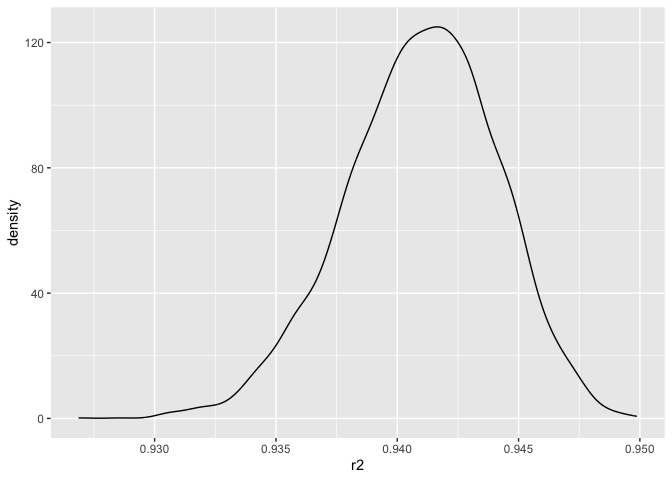
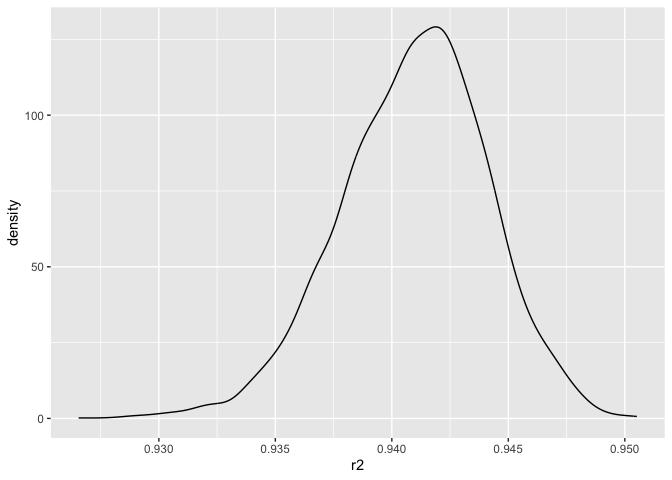
-finish

diff --git a/p8105_hw6_jc6693.md b/p8105_hw6_jc6693.md
@@ -187,6 +187,146 @@ CI_table
 
 |    r2_low |   r2_high |  beta_low | beta_high |
 |----------:|----------:|----------:|----------:|
-| 0.9344278 | 0.9466046 | -278.6629 | -125.0794 |
+| 0.9343003 | 0.9467963 | -278.3924 | -124.4131 |
 
 ## Problem 3
+
+``` r
+library(modelr)
+```
+
+    ## 
+    ## Attaching package: 'modelr'
+
+    ## The following object is masked from 'package:broom':
+    ## 
+    ##     bootstrap
+
+``` r
+birthweight_df = read_csv('data/birthweight.csv') |>
+  drop_na() |>
+  mutate(babysex = factor(babysex, levels = c(1,2), labels = c("Male","Female")))
+```
+
+    ## Rows: 4342 Columns: 20
+    ## ── Column specification ────────────────────────────────────────────────────────
+    ## Delimiter: ","
+    ## dbl (20): babysex, bhead, blength, bwt, delwt, fincome, frace, gaweeks, malf...
+    ## 
+    ## ℹ Use `spec()` to retrieve the full column specification for this data.
+    ## ℹ Specify the column types or set `show_col_types = FALSE` to quiet this message.
+
+considering using mother’s weight(ppwt) and weight gained (wtgain) and
+baby’s sex(babysex) to predict birthweight(bwt).
+
+``` r
+model1 = lm(bwt ~ ppwt + wtgain + babysex, data = birthweight_df)
+summary(model1)
+```
+
+    ## 
+    ## Call:
+    ## lm(formula = bwt ~ ppwt + wtgain + babysex, data = birthweight_df)
+    ## 
+    ## Residuals:
+    ##     Min      1Q  Median      3Q     Max 
+    ## -2387.8  -276.6    17.4   317.4  1547.9 
+    ## 
+    ## Coefficients:
+    ##                Estimate Std. Error t value Pr(>|t|)    
+    ## (Intercept)   2250.1955    49.7031  45.273  < 2e-16 ***
+    ## ppwt             5.1388     0.3653  14.068  < 2e-16 ***
+    ## wtgain          12.1645     0.6732  18.069  < 2e-16 ***
+    ## babysexFemale  -80.1823    14.6989  -5.455 5.17e-08 ***
+    ## ---
+    ## Signif. codes:  0 '***' 0.001 '**' 0.01 '*' 0.05 '.' 0.1 ' ' 1
+    ## 
+    ## Residual standard error: 483.9 on 4338 degrees of freedom
+    ## Multiple R-squared:  0.1081, Adjusted R-squared:  0.1074 
+    ## F-statistic: 175.2 on 3 and 4338 DF,  p-value: < 2.2e-16
+
+``` r
+model1_plot = birthweight_df |>
+  add_predictions(model1) |>
+  add_residuals(model1) |>
+  ggplot(aes(x = pred, y = resid)) + geom_point()
+model1_plot
+```
+
+![](p8105_hw6_jc6693_files/figure-gfm/unnamed-chunk-16-1.png)<!-- -->
+
+the other models:
+
+``` r
+model2 = lm(bwt ~ blength + gaweeks,data = birthweight_df)
+summary(model2)
+```
+
+    ## 
+    ## Call:
+    ## lm(formula = bwt ~ blength + gaweeks, data = birthweight_df)
+    ## 
+    ## Residuals:
+    ##     Min      1Q  Median      3Q     Max 
+    ## -1709.6  -215.4   -11.4   208.2  4188.8 
+    ## 
+    ## Coefficients:
+    ##              Estimate Std. Error t value Pr(>|t|)    
+    ## (Intercept) -4347.667     97.958  -44.38   <2e-16 ***
+    ## blength       128.556      1.990   64.60   <2e-16 ***
+    ## gaweeks        27.047      1.718   15.74   <2e-16 ***
+    ## ---
+    ## Signif. codes:  0 '***' 0.001 '**' 0.01 '*' 0.05 '.' 0.1 ' ' 1
+    ## 
+    ## Residual standard error: 333.2 on 4339 degrees of freedom
+    ## Multiple R-squared:  0.5769, Adjusted R-squared:  0.5767 
+    ## F-statistic:  2958 on 2 and 4339 DF,  p-value: < 2.2e-16
+
+``` r
+model3 = lm(bwt ~ (bhead + blength + babysex)^3, data = birthweight_df)
+summary(model3)
+```
+
+    ## 
+    ## Call:
+    ## lm(formula = bwt ~ (bhead + blength + babysex)^3, data = birthweight_df)
+    ## 
+    ## Residuals:
+    ##      Min       1Q   Median       3Q      Max 
+    ## -1132.99  -190.42   -10.33   178.63  2617.96 
+    ## 
+    ## Coefficients:
+    ##                               Estimate Std. Error t value Pr(>|t|)    
+    ## (Intercept)                 -7176.8170  1264.8397  -5.674 1.49e-08 ***
+    ## bhead                         181.7956    38.0542   4.777 1.84e-06 ***
+    ## blength                       102.1269    26.2118   3.896 9.92e-05 ***
+    ## babysexFemale                6374.8684  1677.7669   3.800 0.000147 ***
+    ## bhead:blength                  -0.5536     0.7802  -0.710 0.478012    
+    ## bhead:babysexFemale          -198.3932    51.0917  -3.883 0.000105 ***
+    ## blength:babysexFemale        -123.7729    35.1185  -3.524 0.000429 ***
+    ## bhead:blength:babysexFemale     3.8781     1.0566   3.670 0.000245 ***
+    ## ---
+    ## Signif. codes:  0 '***' 0.001 '**' 0.01 '*' 0.05 '.' 0.1 ' ' 1
+    ## 
+    ## Residual standard error: 287.7 on 4334 degrees of freedom
+    ## Multiple R-squared:  0.6849, Adjusted R-squared:  0.6844 
+    ## F-statistic:  1346 on 7 and 4334 DF,  p-value: < 2.2e-16
+
+``` r
+cv_df = crossv_mc(birthweight_df, 100) |>
+  mutate(train = map(train, as_tibble), test = map(test, as_tibble)) |>
+  mutate(mod1 = map(train, \(df) lm(bwt ~ ppwt + wtgain + babysex, data = df)), mod2 = map(train, \(df) lm(bwt ~ blength + gaweeks, data = df)), mod3 = map(train, \(df) lm(bwt ~ (bhead + blength + babysex)^3, data = df))) |> 
+  mutate(rmse1 = map2_dbl(mod1, test, \(mod, df) rmse(model = mod, data = df)), rmse2 = map2_dbl(mod2, test, \(mod, df) rmse(model = mod, data = df)), rmse3 = map2_dbl(mod3, test, \(mod, df) rmse(model = mod, data = df))) |>
+  select(starts_with("rmse")) |> 
+  pivot_longer(
+    everything(),
+    names_to = "model", 
+    values_to = "rmse",
+    names_prefix = "rmse_") |> 
+  mutate(model = fct_inorder(model)) |> 
+  ggplot(aes(x = model, y = rmse)) + geom_violin()
+  
+cv_df
+```
+
+![](p8105_hw6_jc6693_files/figure-gfm/unnamed-chunk-19-1.png)<!-- -->
